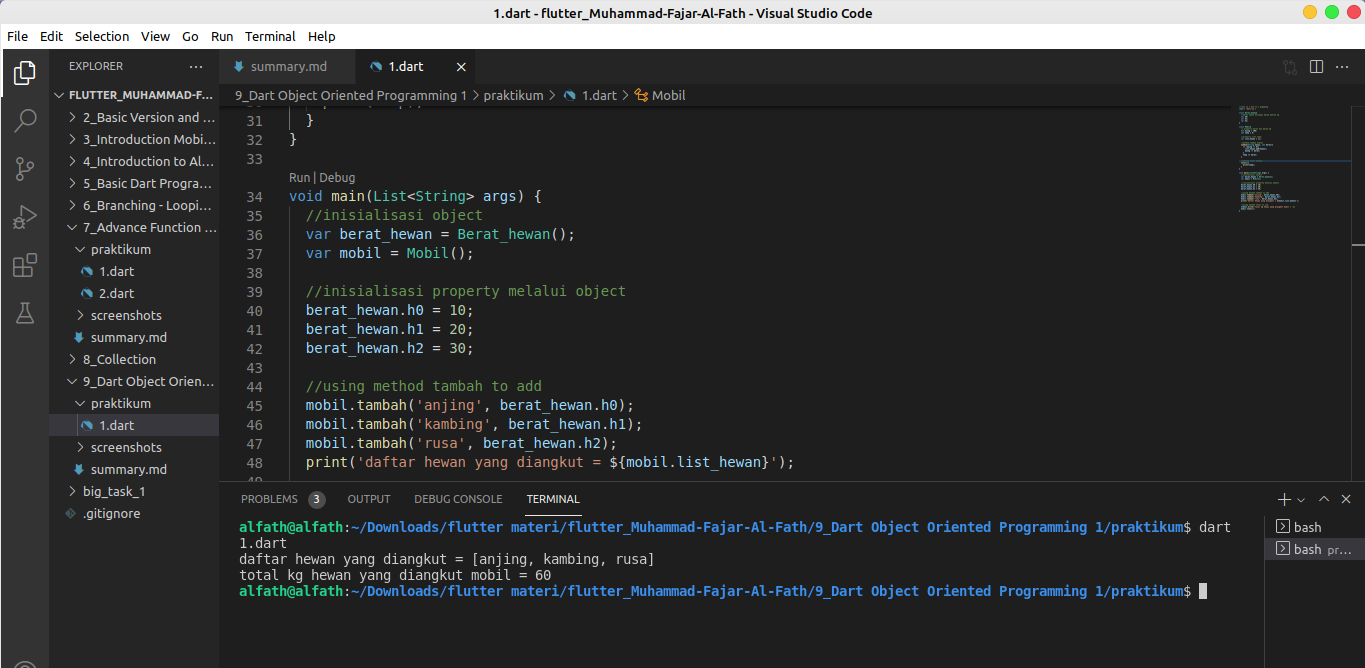
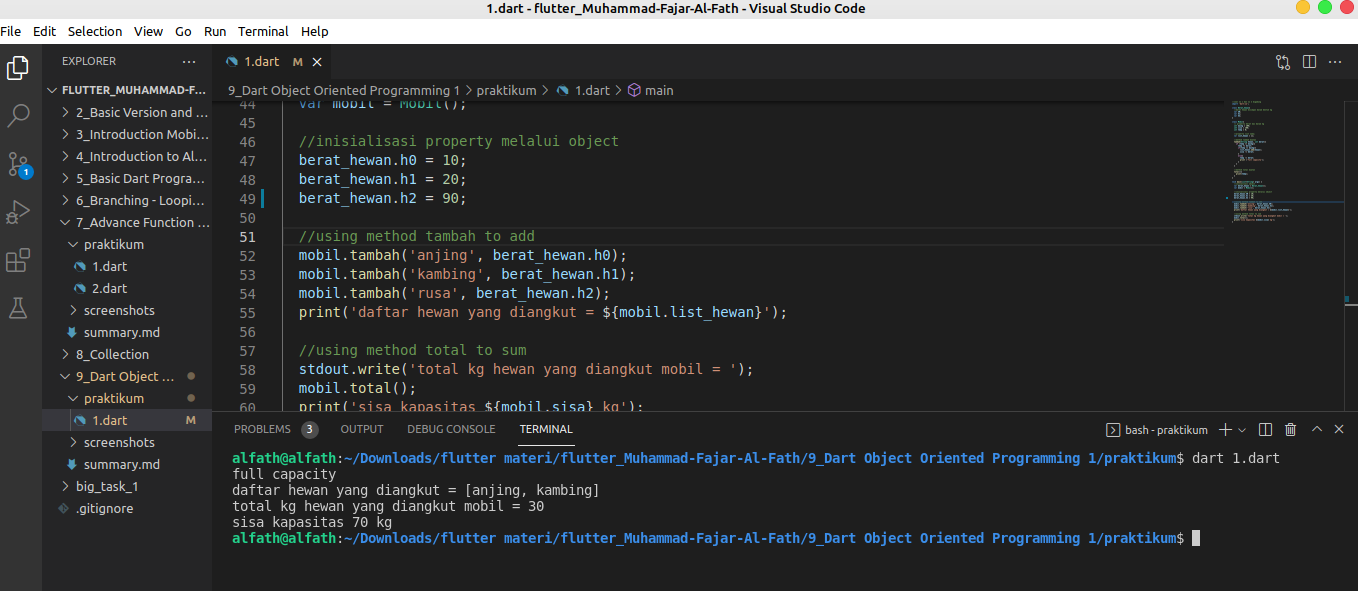
revisi screenshots terbaru

diff --git a/9_Dart Object Oriented Programming 1/praktikum/1.dart b/9_Dart Object Oriented Programming 1/praktikum/1.dart
@@ -46,7 +46,7 @@ void main(List<String> args) {
   //inisialisasi property melalui object
   berat_hewan.h0 = 10;
   berat_hewan.h1 = 20;
-  berat_hewan.h2 = 20;
+  berat_hewan.h2 = 90;
 
   //using method tambah to add
   mobil.tambah('anjing', berat_hewan.h0);
